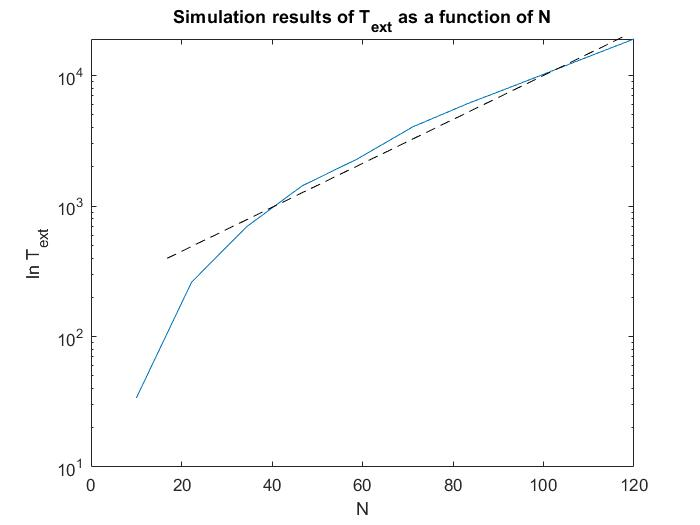
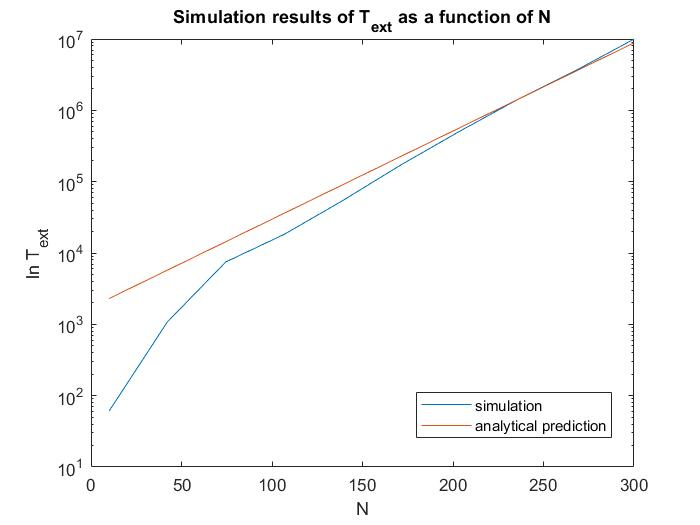
1d and figs

diff --git a/task31dtest2.m b/task31dtest2.m
@@ -1,10 +1,10 @@
 %task31ctest2
 
-nrRuns = 1000;
+nrRuns = 100;
 alpha = 1;
-beta = 0.78;
+beta = 0.768;
 numN = 10;
-nVec = linspace(10,200,numN);
+nVec = linspace(10,120,numN);
 tVec = zeros(1,numN);
 
 for n = 1:numN
@@ -21,12 +21,13 @@ for n = 1:numN
 end
 
 tAnalytical = AnalyticalText(alpha, beta, nVec);
-%tAnalytical = tAnalytical.*nVec; 
-%tAnalytical = tAnalytical*tVec(end-3)/tAnalytical(end-3); 
+% tAnalytical = tAnalytical.*nVec; 
+tAnalytical = tAnalytical*tVec(end)/tAnalytical(end); 
 semilogy(nVec,tVec);
 hold on
 semilogy(nVec,tAnalytical);
 xlabel('N'); 
 ylabel('ln T_{ext}'); 
 title('Simulation results of T_{ext} as a function of N'); 
+legend('simulation', 'analytical prediction'); 
 
